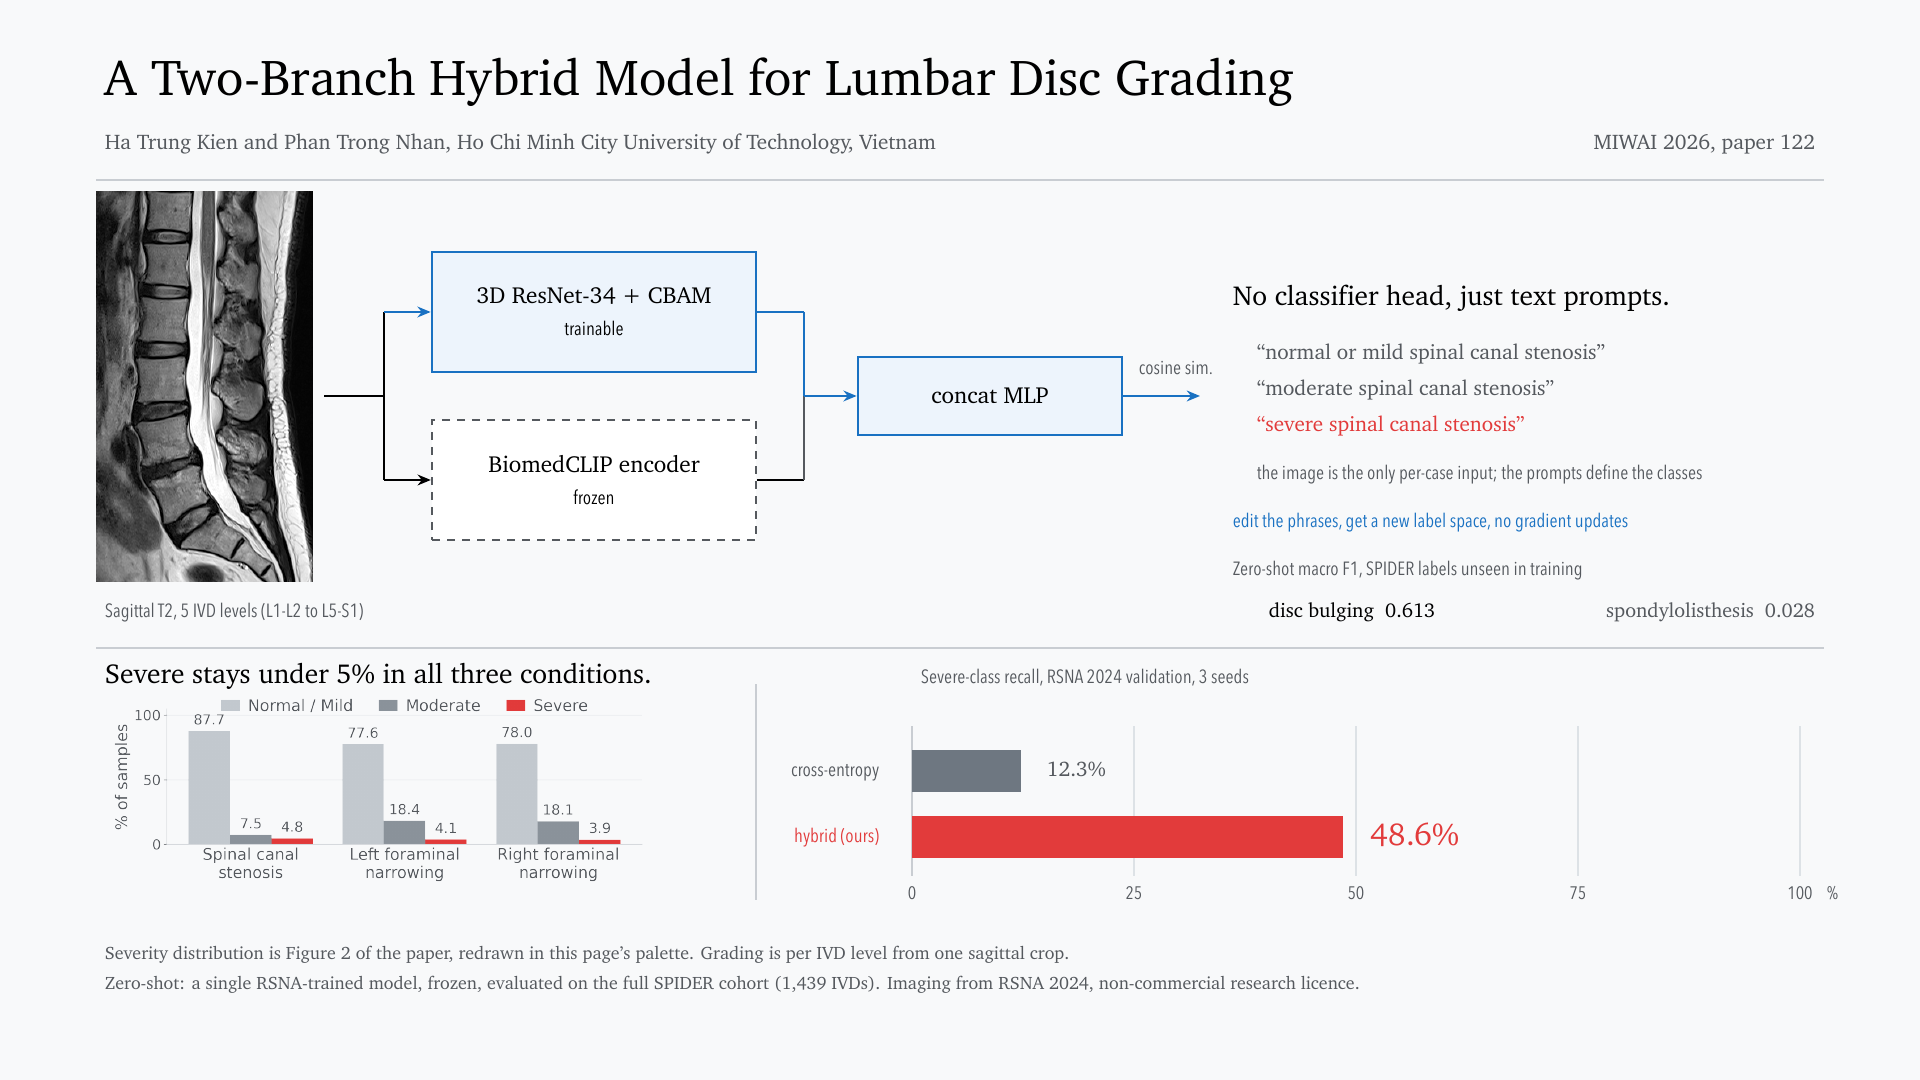
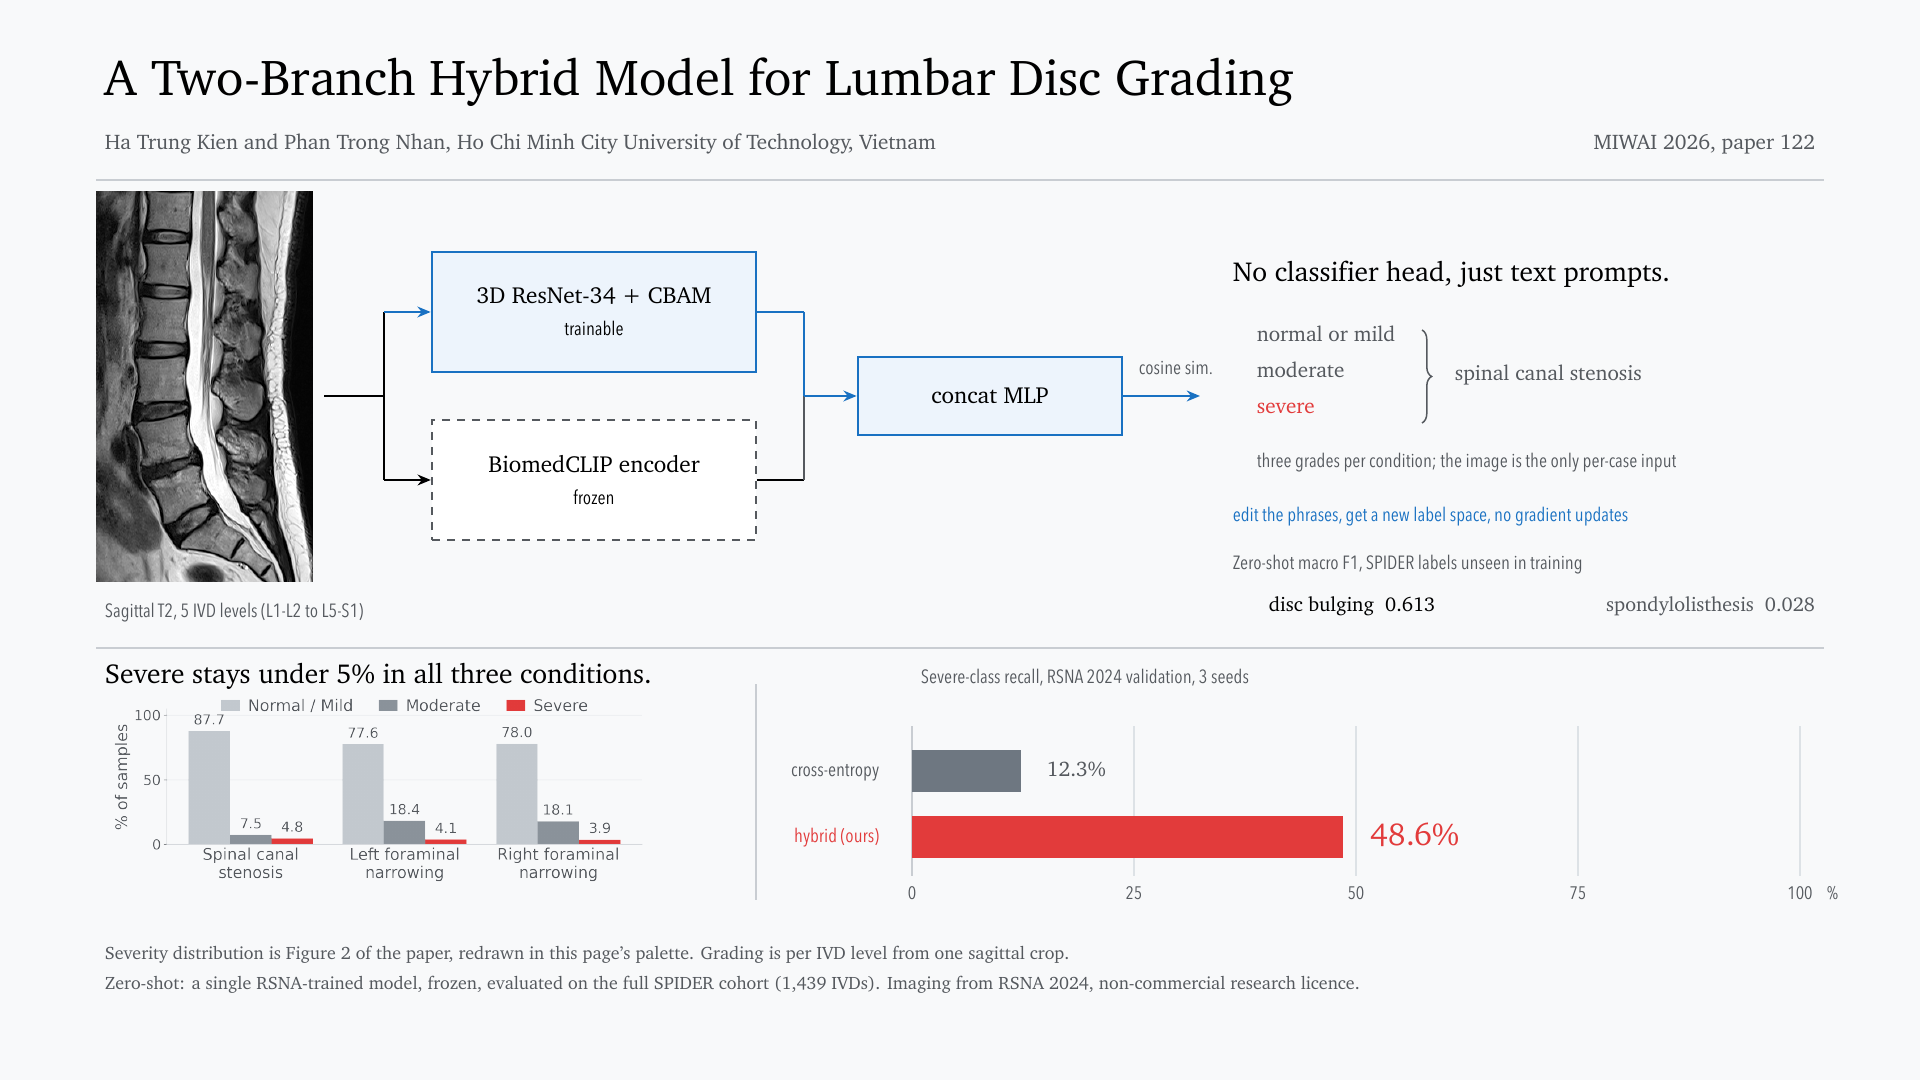
miwai(async): factor the repeated condition name out of the prompts
Spelled out in full, the three prompts repeated "spinal canal stenosis" three
times over. That is a lot of ink for one word that changes. A brace groups the
three grades against the condition written once, which is also a truer picture
of the prompt set: one sentence with the grade as its only slot.

Two grey notes became one, since the heading already says the prompts are the
classifier, and the block moved up to buy the room back. The divider stays at
72, where the lower band needs it: moving it down to fit the block cut through
both headings underneath.

Changed region(s): [[0.625, 0.2444, 0.875, 0.4889], [0.625, 0.5194, 0.8125, 0.5806], [0.8438, 0.55, 0.9375, 0.5806]]

diff --git a/paper/camera_ready/miwai_async/infographic.tex b/paper/camera_ready/miwai_async/infographic.tex
@@ -32,7 +32,7 @@
 \newfontfamily\cond{Avenir Next Condensed}
 \usepackage{graphicx}
 \usepackage{tikz}
-\usetikzlibrary{arrows.meta,positioning,calc}
+\usetikzlibrary{arrows.meta,positioning,calc,decorations.pathreplacing}
 \pagestyle{empty}
 \setlength{\parindent}{0pt}
 
@@ -127,28 +127,34 @@
 % "Classes enter as text prompts" read as though the prompt were fed in per
 % image, which is wrong, so the heading says what is absent instead.
 \node[anchor=base west, font=\fontsize{13}{16}\selectfont]
-     at (204,129) {No classifier head, just text prompts.};
+     at (204,133) {No classifier head, just text prompts.};
 
-% The real RSNA prompts, from RSNA_PROMPTS in train_rsna_hybrid.py: three per
-% condition, one per grade. An earlier draft showed the SPIDER presence-label
-% template instead, which made the output look like a yes-or-no finding when
-% the model grades severity.
-\node[anchor=base west, text=ink70, font=\fontsize{10}{13}\selectfont] at (208,120)
-     {``normal or mild spinal canal stenosis''};
-\node[anchor=base west, text=ink70, font=\fontsize{10}{13}\selectfont] at (208,114)
-     {``moderate spinal canal stenosis''};
-\node[anchor=base west, text=signal, font=\fontsize{10}{13}\selectfont] at (208,108)
-     {``severe spinal canal stenosis''};
+% The real RSNA prompts, from RSNA_PROMPTS in train_rsna_hybrid.py. Spelled out
+% in full they repeated "spinal canal stenosis" three times over, which is a lot
+% of ink for one varying word. The brace factors the condition out, so what the
+% reader sees is what the prompt set actually is: one sentence with the grade as
+% the only slot.
+\node[anchor=base west, text=ink70, font=\fontsize{10}{13}\selectfont] at (208,123)
+     {normal or mild};
+\node[anchor=base west, text=ink70, font=\fontsize{10}{13}\selectfont] at (208,117)
+     {moderate};
+\node[anchor=base west, text=signal, font=\fontsize{10}{13}\selectfont] at (208,111)
+     {severe};
+\draw[ink70, line width=0.25mm, decorate,
+      decoration={brace, amplitude=1.6mm, mirror}] (237,109.5) -- (237,125);
+\node[anchor=base west, text=ink70, font=\fontsize{10}{13}\selectfont] at (241,116.5)
+     {spinal canal stenosis};
 
-\node[anchor=base west, text=ink70, font=\cond\fontsize{9}{11}\selectfont] at (208,100)
-     {the image is the only per-case input; the prompts define the classes};
+\node[anchor=base west, text=ink70, font=\cond\fontsize{9}{11}\selectfont] at (208,102)
+     {three grades per condition; the image is the only per-case input};
+
 \node[anchor=base west, text=trained, font=\cond\fontsize{9}{11}\selectfont]
-     at (204,92) {edit the phrases, get a new label space, no gradient updates};
+     at (204,93) {edit the phrases, get a new label space, no gradient updates};
 
 \node[anchor=base west, text=ink70, font=\cond\fontsize{9}{11}\selectfont]
-     at (204,84) {Zero-shot macro F1, SPIDER labels unseen in training};
-\node[anchor=base west, font=\fontsize{9.5}{12}\selectfont] at (210,77) {disc bulging \ 0.613};
-\node[anchor=base east, text=ink70, font=\fontsize{9.5}{12}\selectfont] at (304,77) {spondylolisthesis \ 0.028};
+     at (204,85) {Zero-shot macro F1, SPIDER labels unseen in training};
+\node[anchor=base west, font=\fontsize{9.5}{12}\selectfont] at (210,78) {disc bulging \ 0.613};
+\node[anchor=base east, text=ink70, font=\fontsize{9.5}{12}\selectfont] at (304,78) {spondylolisthesis \ 0.028};
 
 \draw[rule, line width=0.2mm] (16,72) -- (304,72);
 
